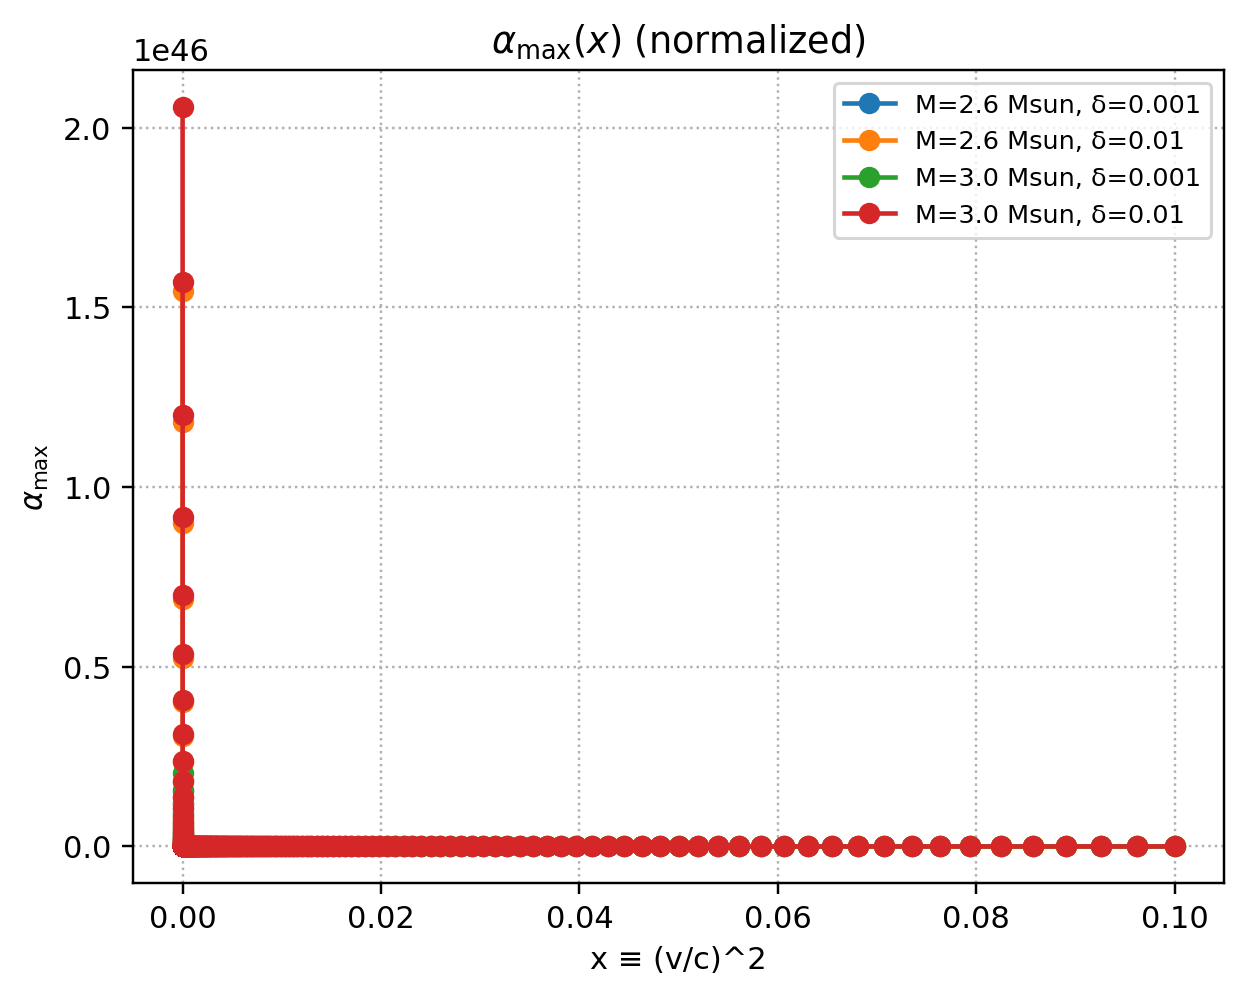
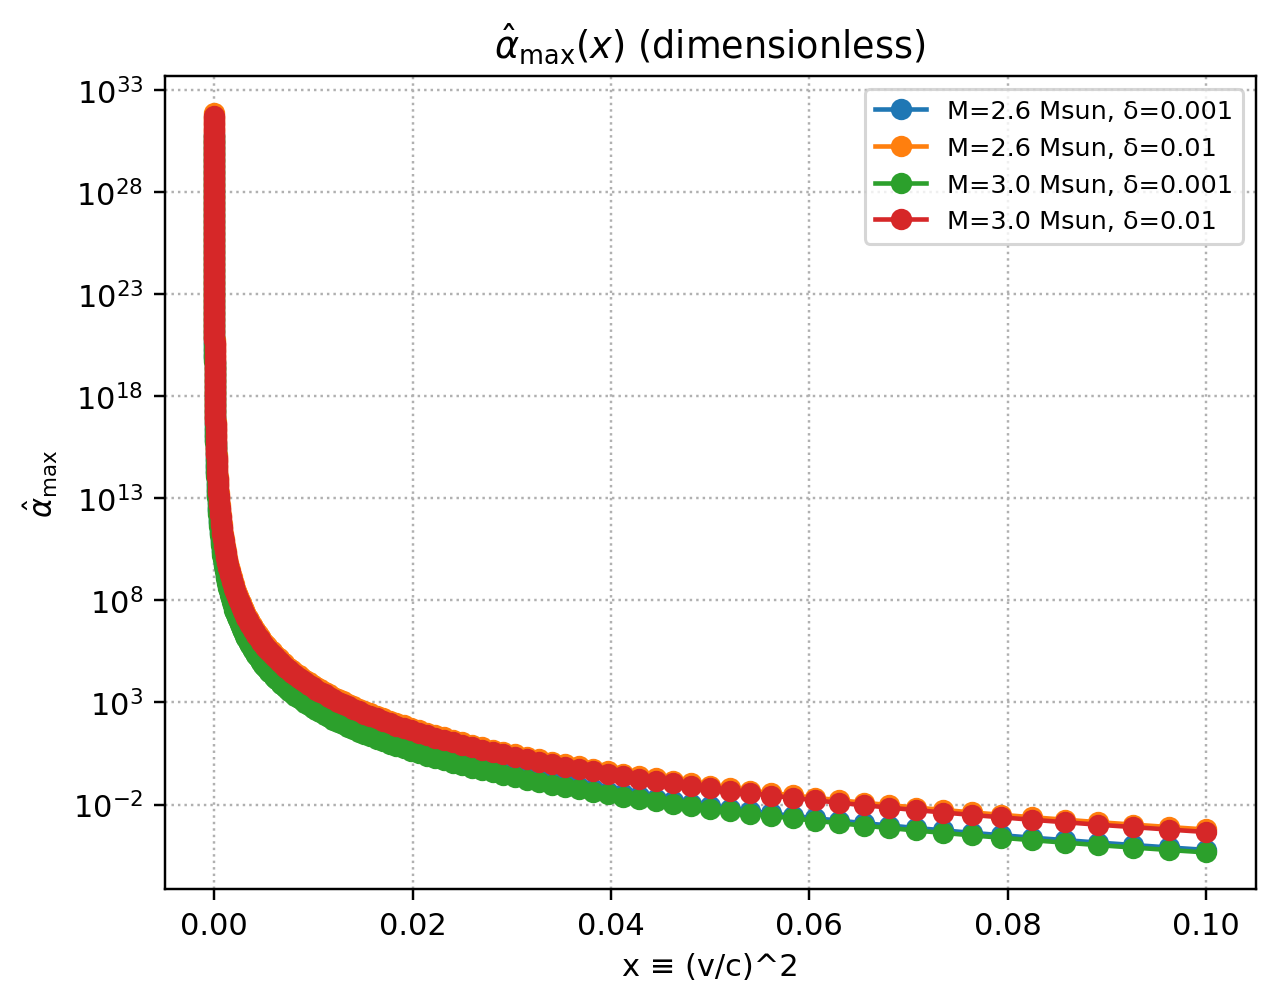
fig: plot dimensionless ĥα_max; log-y for dynamic range

diff --git a/scripts/fig_alpha_max_vs_x.py b/scripts/fig_alpha_max_vs_x.py
@@ -1,29 +1,51 @@
 from pathlib import Path
 import pandas as pd
+import numpy as np
 import matplotlib.pyplot as plt
 
 CSV = Path("data/processed/alpha_max_vs_x_mass_dependent.csv")
 PNG = Path("figures/alpha_max_vs_x.png")
 PDF = Path("figures/alpha_max_vs_x.pdf")
 
+# constants (SI)
+G   = 6.67430e-11
+c   = 2.99792458e8
+Msun= 1.98847e30
+
+def length_scale_m(mass_msun: float) -> float:
+    """(GM/c^2) in meters for a given mass in Msun."""
+    return G*(mass_msun*Msun)/c**2
+
 def main():
     if not CSV.exists():
         raise SystemExit(f"Missing {CSV}; run: python scripts/generate_data.py")
     df = pd.read_csv(CSV)
 
-    # group by mass (legend), separate curves by delta if present
+    # Expect normalized long schema: X, alpha_max, mass, (optional) delta
+    need = {"X","alpha_max","mass"}
+    if not need.issubset(df.columns):
+        raise SystemExit(f"{CSV} missing required columns {need}, has {list(df.columns)}")
+
+    # Compute dimensionless hat_alpha = alpha_max / (GM/c^2)^4 for each row
+    L = length_scale_m(df["mass"].astype(float).values)  # meters
+    hat_alpha = df["alpha_max"].astype(float).values / (L**4)
+    df = df.assign(hat_alpha=hat_alpha)
+
+    # Plot: group by mass, separate by delta if present; use log-y for dynamic range
     fig, ax = plt.subplots()
     if "delta" in df.columns:
         for (m,d), sub in df.groupby(["mass","delta"]):
-            ax.plot(sub["X"], sub["alpha_max"], marker="o", linestyle="-", label=f"M={m} Msun, δ={d}")
+            sub = sub.sort_values("X")
+            ax.semilogy(sub["X"], sub["hat_alpha"], marker="o", linestyle="-", label=f"M={m} Msun, δ={d}")
     else:
         for m, sub in df.groupby("mass"):
-            ax.plot(sub["X"], sub["alpha_max"], marker="o", linestyle="-", label=f"M={m} Msun")
+            sub = sub.sort_values("X")
+            ax.semilogy(sub["X"], sub["hat_alpha"], marker="o", linestyle="-", label=f"M={m} Msun")
 
     ax.set_xlabel("x ≡ (v/c)^2")
-    ax.set_ylabel(r"$\alpha_{\max}$")
-    ax.set_title(r"$\alpha_{\max}(x)$ (normalized)")
-    ax.grid(True, ls=":")
+    ax.set_ylabel(r"$\hat{\alpha}_{\max}$")
+    ax.set_title(r"$\hat{\alpha}_{\max}(x)$ (dimensionless)")
+    ax.grid(True, which="both", ls=":")
     ax.legend(ncol=1, fontsize="small")
 
     PNG.parent.mkdir(parents=True, exist_ok=True)
